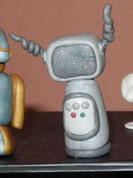
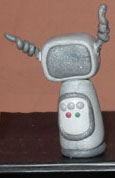
Fix some text and make pictures straighter and better cropped

diff --git a/Liquid/liquid3.html b/Liquid/liquid3.html
@@ -17,7 +17,7 @@
 					</li>
 					<li><a href="liquid2.html">Asimov's Laws</a>
 					</li>
-					<li><a href="liquid3.html">Meet the Bots</a>
+					<li><a href="liquid3.html">Meet the Robots</a>
 						<ul>
 							<li><a href="#red-bots">Red Bots</a></li>
 							<li><a href="#orange-bots">Orange Bots</a></li>
@@ -233,10 +233,10 @@
 									<li>Bot6</li>
 									<a href="images/brown6.jpg" rel="lightbox[brown]"title="Bot6">
 									<img src="images/brown6.jpg" rel="lightbox" height=50% width= 50%/></a>
-									<li><a href="#page-top">Back to the Top</a></li>
 									<li>Bot7</li>
 									<a href="images/brown7.jpg" rel="lightbox[brown]"title="Bot7">
 									<img src="images/brown7.jpg" rel="lightbox" height=50% width= 50%/></a>
+									<li><a href="#page-top">Back to the Top</a></li>
 								</ul>
 							</div>
 							<div class="list-collapse">

diff --git a/Liquid/index.html b/Liquid/index.html
@@ -16,7 +16,7 @@
 					</li>
 					<li><a href="liquid2.html">Asimov's Laws</a>
 					</li>
-					<li><a href="liquid3.html">Meet the Bots</a>
+					<li><a href="liquid3.html">Meet the Robots</a>
 						<ul>
 							<li><a href="liquid3.html#red-bots">Red Bots</a></li>
 							<li><a href="liquid3.html#orange-bots">Orange Bots</a></li>
@@ -37,10 +37,6 @@
 					<div id="col1">
 						<div id="left-bar">
 							<ul>
-								<li>Sidebar 1</li>
-								<li>Sidebar 2</li>
-								<li>Sidebar 3</li>
-								<li>Sidebar 4</li>
 							</ul>
 						</div>
 						

diff --git a/Liquid/liquid4.html b/Liquid/liquid4.html
@@ -16,7 +16,7 @@
 					</li>
 					<li><a href="liquid2.html">Asimov's Laws</a>
 					</li>
-					<li><a href="liquid3.html">Meet the Bots</a>
+					<li><a href="liquid3.html">Meet the Robots</a>
 						<ul>
 							<li><a href="liquid3.html#red-bots">Red Bots</a></li>
 							<li><a href="liquid3.html#orange-bots">Orange Bots</a></li>
@@ -37,10 +37,6 @@
 					<div id="col1">
 						<div id="left-bar">
 							<ul>
-								<li>Sidebar 1</li>
-								<li>Sidebar 2</li>
-								<li>Sidebar 3</li>
-								<li>Sidebar 4</li>
 							</ul>
 						</div>
 						

diff --git a/Liquid/liquid2.html b/Liquid/liquid2.html
@@ -16,7 +16,7 @@
 					</li>
 					<li><a href="liquid2.html">Asimov's Laws</a>
 					</li>
-					<li><a href="liquid3.html">Meet the Bots</a>
+					<li><a href="liquid3.html">Meet the Robots</a>
 						<ul>
 							<li><a href="liquid3.html#red-bots">Red Bots</a></li>
 							<li><a href="liquid3.html#orange-bots">Orange Bots</a></li>
